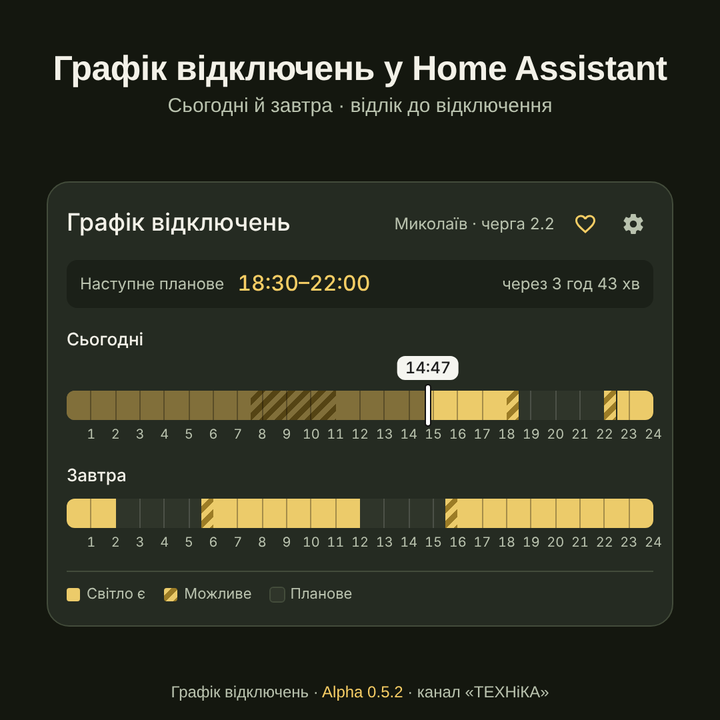
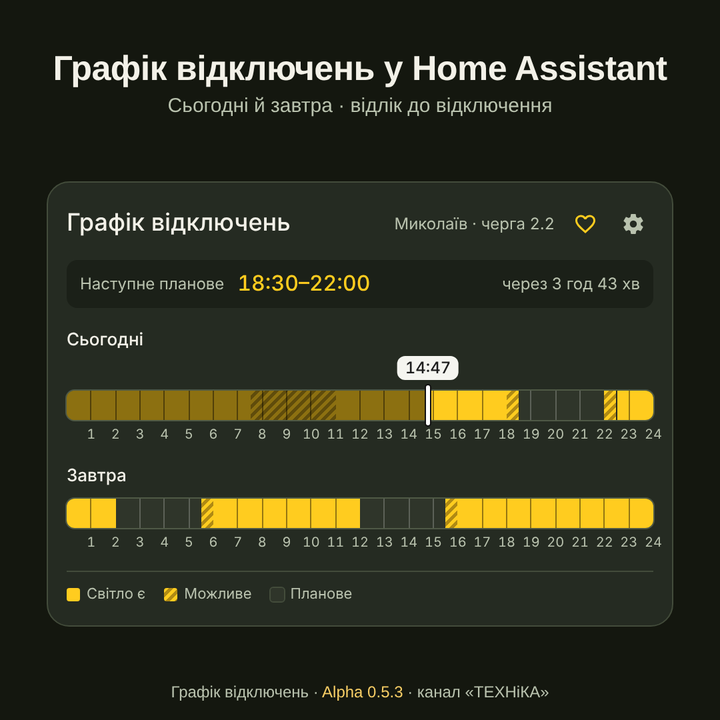
Alpha 0.5.3: нові кольори, мініпоказ у виборі карток, Магазин
- Сонячний жовтий, дрібна діагональ для «можливого», м'який зовнішній контур.
- Контрастніша світла тема для палітр «Олива» і «Графіт».
- «Планове»: Темне / Середнє, працює в обох темах.
- Мініпоказ у вікні вибору карток: свої сенсори або приклад графіка.
- README: встановлення через вбудований Магазин (HA 2026.11+), HACS для старіших версій.

Claude-Session: https://claude.ai/code/session_01BSH3RhDHQM6KMPPb141byH

diff --git a/grafik-tehnik.js b/grafik-tehnik.js
@@ -4,7 +4,7 @@
   const CARD_TAG = "grafik-tehnik";
   // Name used up to Alpha 0.5.1; still registered so existing dashboards keep working.
   const LEGACY_TAG = "svitla-ryska-card";
-  const VERSION = "Alpha 0.5.2";
+  const VERSION = "Alpha 0.5.3";
   const SLOTS_PER_DAY = 48;
   const MINUTES_PER_SLOT = 30;
   const MINUTES_PER_DAY = SLOTS_PER_DAY * MINUTES_PER_SLOT;
@@ -27,7 +27,7 @@
     shape: ["band", "pills", "cubes"],
     palette: ["olive", "graphite"],
     theme: ["auto", "light", "dark"],
-    planned_shade: ["dark", "mid", "light"],
+    planned_shade: ["dark", "mid"],
     support: ["show", "hide"],
   };
 
@@ -49,41 +49,49 @@
   const PALETTES = {
     olive: {
       name: "Олива",
-      shades: { dark: "#1c2118", mid: "#2f352a", light: "#3d4339" },
+      shades: {
+        dark: { dark: "#1c2118", mid: "#2f352a" },
+        light: { dark: "#24291f", mid: "#353b30" },
+      },
       dark: {
         sf: "#252b22", popbg: "#2c3428", edge: "#434c3b", ink: "#f3f1e8", quiet: "#b9c2ae",
-        fc: "#1b2018", fcink: "#f6cd65", live: "#eccb6a", onlive: "#3a2f0a",
-        pos: "#eccb6a", posS: "#9c7c26", planEdge: "#4a5442", off: "#3a4035",
+        fc: "#1b2018", fcink: "#ffcc1f", live: "#ffcc1f", onlive: "#3a2f0a",
+        pos: "#ffcc1f", posS: "#b08a14", off: "#3a4035", ring: "#4f5946",
       },
       light: {
-        sf: "#f3f3e4", popbg: "#fbfbf3", edge: "#d4d8c1", ink: "#292e24", quiet: "#4d5747",
-        fc: "#e4e8d4", fcink: "#674c17", live: "#f5c656", onlive: "#3a2f0a",
-        pos: "#f8d77f", posS: "#c99a2e", plan: "#50574b", planEdge: "transparent", off: "#dfe2d3",
+        sf: "#e9ebdc", popbg: "#f6f7ee", edge: "#b9bea4", ink: "#1d2118", quiet: "#3d4536",
+        fc: "#dcdfcb", fcink: "#6b4f00", live: "#ffc20e", onlive: "#3a2f0a",
+        pos: "#ffc20e", posS: "#b08300", off: "#d6d9c6", ring: "rgba(0,0,0,.22)",
+        past: "rgba(233,235,220,.55)",
       },
     },
     graphite: {
       name: "Графіт",
-      shades: { dark: "#151515", mid: "#2b2b2b", light: "#393939" },
+      shades: {
+        dark: { dark: "#151515", mid: "#2b2b2b" },
+        light: { dark: "#1f1f1f", mid: "#333333" },
+      },
       dark: {
         sf: "#202020", popbg: "#2a2a2a", edge: "#3a3a3a", ink: "#f2f2f2", quiet: "#aaaaaa",
-        fc: "#181818", fcink: "#f2c94c", live: "#f2c94c", onlive: "#3a2f0a",
-        pos: "#f2c94c", posS: "#9a7a1c", planEdge: "#454545", off: "#2e2e2e",
+        fc: "#181818", fcink: "#ffcc1f", live: "#ffcc1f", onlive: "#3a2f0a",
+        pos: "#ffcc1f", posS: "#b08a14", off: "#2e2e2e", ring: "#4a4a4a",
       },
       light: {
-        sf: "#f7f7f7", popbg: "#ffffff", edge: "#dddddd", ink: "#1d1d1d", quiet: "#666666",
-        fc: "#ececec", fcink: "#8a6a00", live: "#f2c94c", onlive: "#3a2f0a",
-        pos: "#f7da7e", posS: "#c79a1e", plan: "#3a3a3a", planEdge: "transparent", off: "#e3e3e3",
+        sf: "#ececec", popbg: "#f8f8f8", edge: "#bdbdbd", ink: "#151515", quiet: "#444444",
+        fc: "#e0e0e0", fcink: "#6b4f00", live: "#ffc20e", onlive: "#3a2f0a",
+        pos: "#ffc20e", posS: "#b08300", off: "#d9d9d9", ring: "rgba(0,0,0,.22)",
+        past: "rgba(236,236,236,.55)",
       },
     },
   };
   const MODE_VARS = {
     dark: {
-      tickD: "rgba(0,0,0,.3)", tickL: "rgba(255,255,255,.14)", tickO: "rgba(255,255,255,.07)",
+      tickD: "rgba(0,0,0,.42)", tickL: "rgba(255,255,255,.22)", tickO: "rgba(255,255,255,.07)",
       past: "rgba(0,0,0,.45)", lo: "#111111", bd: "#f5f5f0", bdi: "#1d1d1d", shadow: "rgba(0,0,0,.45)",
     },
     light: {
-      tickD: "rgba(0,0,0,.16)", tickL: "rgba(255,255,255,.22)", tickO: "rgba(0,0,0,.07)",
-      past: "rgba(255,255,255,.5)", lo: "#555555", bd: "#2a2f33", bdi: "#ffffff", shadow: "rgba(0,0,0,.2)",
+      tickD: "rgba(0,0,0,.34)", tickL: "rgba(255,255,255,.28)", tickO: "rgba(0,0,0,.08)",
+      lo: "#555555", bd: "#2a2f33", bdi: "#ffffff", shadow: "rgba(0,0,0,.2)",
     },
   };
 
@@ -457,17 +465,16 @@
     .timeline { position:relative; margin-top:8px; }
     .day.today .timeline { margin-top:28px; }
     .bar { position:relative; height:22px; cursor:pointer; outline:none; }
-    .bar.band { border-radius:6px; overflow:hidden; }
+    .bar.band { border-radius:6px; overflow:hidden; box-shadow:0 0 0 1px var(--ring); }
     .bar.cubes { container-type:inline-size; }
-    .cube { position:absolute; top:0; bottom:0; border-radius:4px; overflow:hidden; }
+    .cube { position:absolute; top:0; bottom:0; border-radius:4px; overflow:hidden; box-shadow:0 0 0 1px var(--ring); }
     .cube-inner { position:absolute; top:0; bottom:0; width:100cqw; }
-    .pill { position:absolute; top:0; bottom:0; border-radius:11px; overflow:hidden; }
-    .pill.outage { box-shadow:inset 0 0 0 1px var(--planEdge); }
+    .pill { position:absolute; top:0; bottom:0; border-radius:11px; overflow:hidden; box-shadow:0 0 0 1px var(--ring); }
     .seg { position:absolute; top:0; bottom:0; overflow:hidden; }
     .k-live { background:var(--live); }
     .k-planned { background:var(--plan); }
     .k-missing { background:var(--off); }
-    .k-possible { background:repeating-linear-gradient(135deg, var(--pos) 0 4px, var(--posS) 4px 8px); }
+    .k-possible { background:repeating-linear-gradient(135deg, var(--pos) 0 2.5px, var(--posS) 2.5px 5px); }
     .tick { position:absolute; top:0; bottom:0; width:1px; transform:translateX(-50%); background:var(--tickD); pointer-events:none; }
     .k-planned .tick { background:var(--tickL); }
     .k-missing .tick { background:var(--tickO); }
@@ -547,8 +554,20 @@
   `;
 
   class GrafikTehnikCard extends HTMLElement {
-    static getStubConfig() {
-      return { ...DEFAULTS };
+    // Used by the card picker: pick the user's own schedule sensors when they exist,
+    // otherwise the card shows a labelled example until a sensor is chosen.
+    static getStubConfig(hass) {
+      const config = { ...DEFAULTS };
+      const registry = hass?.entities ?? {};
+      const ids = Object.keys(registry)
+        .filter((id) => id.startsWith("sensor.") && registry[id]?.platform === "alerts_energy_outages")
+        .sort();
+      const isTomorrow = (id) => /tomorrow|zavtra|завтра/i.test(`${id} ${hass?.states?.[id]?.attributes?.friendly_name ?? ""}`);
+      const today = ids.find((id) => !isTomorrow(id));
+      const tomorrow = ids.find((id) => isTomorrow(id));
+      if (today) config.today_entity = today;
+      if (tomorrow) config.tomorrow_entity = tomorrow;
+      return config;
     }
 
     static getConfigForm() {
@@ -618,8 +637,11 @@
       this._haDark = dark;
       if (!this._config) return;
       const states = hass?.states;
-      if (darkChanged || states?.[this._config.today_entity] !== this._todayEntity ||
-          states?.[this._config.tomorrow_entity] !== this._tomorrowEntity) {
+      const entitiesChanged = this._config.today_entity
+        ? states?.[this._config.today_entity] !== this._todayEntity ||
+          states?.[this._config.tomorrow_entity] !== this._tomorrowEntity
+        : false;
+      if (darkChanged || entitiesChanged) {
         this._update(darkChanged);
       }
     }
@@ -681,8 +703,10 @@
       if (!this._config) return;
       const clock = kyivTime();
       const states = this._hass?.states;
-      const todayEntity = states?.[this._config.today_entity];
-      const tomorrowEntity = states?.[this._config.tomorrow_entity];
+      this._demo = !this._config.today_entity;
+      const demo = this._demo ? this._demoStates(clock) : null;
+      const todayEntity = demo ? demo.today : states?.[this._config.today_entity];
+      const tomorrowEntity = demo ? demo.tomorrow : states?.[this._config.tomorrow_entity];
       const changed = force || clock.date !== this._date ||
         todayEntity !== this._todayEntity || tomorrowEntity !== this._tomorrowEntity;
 
@@ -701,6 +725,26 @@
       }
     }
 
+    // Example schedule shown only while no sensor is configured (card picker preview).
+    _demoStates(clock) {
+      if (this._demoCache?.date === clock.date) return this._demoCache;
+      const period = (start, end) => ({ start, end });
+      this._demoCache = {
+        date: clock.date,
+        today: { state: "on", attributes: {
+          date: clock.date, schedule_status: "published",
+          planned_periods: [period("18:30", "22:00")],
+          possible_periods: [period("07:30", "11:00"), period("18:00", "18:30"), period("22:00", "22:30")],
+        } },
+        tomorrow: { state: "on", attributes: {
+          date: clock.tomorrow, schedule_status: "published",
+          planned_periods: [period("02:00", "05:30"), period("12:00", "15:30")],
+          possible_periods: [period("05:30", "06:00"), period("15:30", "16:00")],
+        } },
+      };
+      return this._demoCache;
+    }
+
     _readSchedules(clock) {
       const todayAttrs = this._todayEntity?.attributes;
       const tomorrowAttrs = this._tomorrowEntity?.attributes;
@@ -711,14 +755,16 @@
       // A published tomorrow can become today before the integration rolls over.
       const rolledOver = !differentQueue && todayAttrs?.date === clock.yesterday &&
         tomorrowAttrs?.date === clock.date;
+      const todayId = this._demo ? "demo.today" : this._config.today_entity;
+      const tomorrowId = this._demo ? "demo.tomorrow" : this._config.tomorrow_entity;
       this._todayData = rolledOver
-        ? readDay(this._config.tomorrow_entity, this._tomorrowEntity, clock.date)
-        : readDay(this._config.today_entity, this._todayEntity, clock.date);
+        ? readDay(tomorrowId, this._tomorrowEntity, clock.date)
+        : readDay(todayId, this._todayEntity, clock.date);
       this._tomorrowData = differentQueue
         ? missingDay("Оберіть графік тієї самої черги")
         : rolledOver
           ? missingDay("Графік ще не опубліковано")
-          : readDay(this._config.tomorrow_entity, this._tomorrowEntity, clock.tomorrow);
+          : readDay(tomorrowId, this._tomorrowEntity, clock.tomorrow);
 
       const rawQueue = todayAttrs?.queue ?? tomorrowAttrs?.queue;
       this._queue = rawQueue == null ? "" : String(rawQueue).trim().replace(/^черга\s+/iu, "");
@@ -748,8 +794,8 @@
     _cssVars() {
       const mode = this._mode();
       const palette = PALETTES[this._view.palette];
-      const colors = { ...palette[mode], ...MODE_VARS[mode] };
-      if (mode === "dark") colors.plan = palette.shades[this._view.planned_shade];
+      const colors = { ...MODE_VARS[mode], ...palette[mode] };
+      colors.plan = palette.shades[mode][this._view.planned_shade];
       return Object.entries(colors).map(([key, value]) => `--${key}:${value}`).join(";");
     }
 
@@ -833,20 +879,20 @@
     }
 
     _settingsMarkup() {
-      const dark = this._mode() === "dark";
+      const mode = this._mode();
       const dots = (name) => {
-        const colors = PALETTES[name].light;
+        const colors = PALETTES[name][mode];
         return `<span class="dots" aria-hidden="true"><b style="background:${colors.live}"></b>` +
-          `<b style="background:repeating-linear-gradient(135deg,${colors.pos} 0 2px,${colors.posS} 2px 4px)"></b>` +
-          `<b style="background:${colors.plan}"></b></span>`;
+          `<b style="background:repeating-linear-gradient(135deg,${colors.pos} 0 1.5px,${colors.posS} 1.5px 3px)"></b>` +
+          `<b style="background:${PALETTES[name].shades[mode].mid}"></b></span>`;
       };
-      const shades = PALETTES[this._view.palette].shades;
+      const shades = PALETTES[this._view.palette].shades[mode];
       const shade = (name) => `<span class="swatch" style="background:${shades[name]}" aria-hidden="true"></span>`;
       return `<div class="pop settings" role="dialog" aria-label="Налаштування картки">
         <div class="row"><div class="title">Вигляд</div>${this._segmented("shape", [["band", "Смуга"], ["pills", "Пігулки"], ["cubes", "Кубики"]])}</div>
         <div class="row"><div class="title">Палітра</div>${this._segmented("palette", [["olive", `${dots("olive")}Олива`], ["graphite", `${dots("graphite")}Графіт`]])}</div>
         <div class="row"><div class="title">Тема</div>${this._segmented("theme", [["auto", "Авто"], ["light", "Світла"], ["dark", "Темна"]])}</div>
-        ${dark ? `<div class="row"><div class="title">Планове</div>${this._segmented("planned_shade", [["dark", `${shade("dark")}Темне`], ["mid", `${shade("mid")}Середнє`], ["light", `${shade("light")}Світле`]])}</div>` : ""}
+        <div class="row"><div class="title">Планове</div>${this._segmented("planned_shade", [["dark", `${shade("dark")}Темне`], ["mid", `${shade("mid")}Середнє`]])}</div>
         <div class="sep"></div>
         <div class="row"><div class="title">Підтримка</div>${this._segmented("support", [["show", `${icon("heart")}Показати`], ["hide", "Сховати"]])}</div>
       </div>`;
@@ -879,7 +925,8 @@
       const config = this._config;
       const showSupport = this._view.support === "show";
       if (!showSupport && this._menu === "support") this._menu = null;
-      const location = [config.location, this._queue && `черга ${this._queue}`].filter(Boolean).join(" · ");
+      const location = this._demo ? "приклад" :
+        [config.location, this._queue && `черга ${this._queue}`].filter(Boolean).join(" · ");
       const nowLeft = pct(this._clock.minutes / 60);
 
       const todayMarkup = `<section class="day today"><h3>Сьогодні</h3><div class="timeline">
@@ -1024,7 +1071,7 @@
       type: CARD_TAG,
       name: "Графік відключень · ТЕХНіКА",
       description: `Графік відключень на сьогодні й завтра для Alerts Energy Outages. ${VERSION}.`,
-      preview: false,
+      preview: true,
     });
   }
 })();

diff --git a/README.md b/README.md
@@ -16,7 +16,8 @@
 - Верхня плашка показує **наступне планове відключення** і скільки до нього лишилось. Під час відключення там видно, скільки до його кінця.
 - Минулий час на шкалі «Сьогодні» притемнено, поточний час позначено рискою.
 - **Дотик до шкали** показує тип і точний інтервал періоду. Розмір картки при цьому не змінюється.
-- **Шестерня на картці** відкриває налаштування: вигляд (смуга, пігулки, кубики), палітра (олива, графіт), тема (авто, світла, темна), відтінок планового відключення, кнопка підтримки. Вибір зберігається у профілі користувача HA і однаковий на всіх пристроях.
+- **Шестерня на картці** відкриває налаштування: вигляд (смуга, пігулки, кубики), палітра (олива, графіт), тема (авто, світла, темна), відтінок планового відключення (темне, середнє), кнопка підтримки. Вибір зберігається у профілі користувача HA і однаковий на всіх пристроях.
+- У вікні вибору карток видно **мініпоказ**: якщо сенсори графіка вже є, там одразу твій графік.
 
 <p>
   <img src="images/pills.png" width="240" alt="Вигляд «Пігулки»">
@@ -29,14 +30,24 @@
 - Home Assistant актуальної версії.
 - Інтеграція **Alerts Energy Outages**, налаштована на твою чергу. Вона створює два сенсори: графік на сьогодні і графік на завтра. Картка лише показує їхні дані.
 
-## Встановлення через HACS (рекомендовано)
+## Встановлення через Магазин (рекомендовано)
 
-1. Відкрий **HACS**, натисни **⋮** у правому верхньому куті і вибери **Користувацькі репозиторії** (Custom repositories).
-2. Встав адресу `https://github.com/hrudkaav/grafik-tehnik`, тип **Dashboard**, натисни **Додати**.
-3. Знайди в HACS «Графік відключень ТЕХНіКА», відкрий і натисни **Завантажити** (Download).
+У Home Assistant 2026.11 і новіших:
+
+1. **Налаштування → Магазин**, кнопка **Додати з посилання** праворуч угорі.
+2. У поле **Посилання на GitHub** встав `https://github.com/hrudkaav/grafik-tehnik` і натисни **Додати**.
+3. На вкладці **Переглянути** знайди «Графік відключень ТЕХНіКА» і натисни **Встановити**.
 4. Онови сторінку браузера (Ctrl + F5) або перезапусти мобільний застосунок.
 
-HACS сам додасть ресурс і надалі показуватиме оновлення: досить натиснути одну кнопку.
+Ресурс Магазин додає сам, а про нові версії повідомляє в **Налаштуваннях**: досить натиснути **Оновити**.
+
+<details>
+<summary>Home Assistant до 2026.10 з HACS</summary>
+
+1. **HACS → ⋮ → Користувацькі репозиторії** (Custom repositories).
+2. Адреса `https://github.com/hrudkaav/grafik-tehnik`, тип **Dashboard** → **Додати**.
+3. Знайди «Графік відключень ТЕХНіКА» → **Завантажити** (Download), потім Ctrl + F5.
+</details>
 
 ## Встановлення вручну
 
